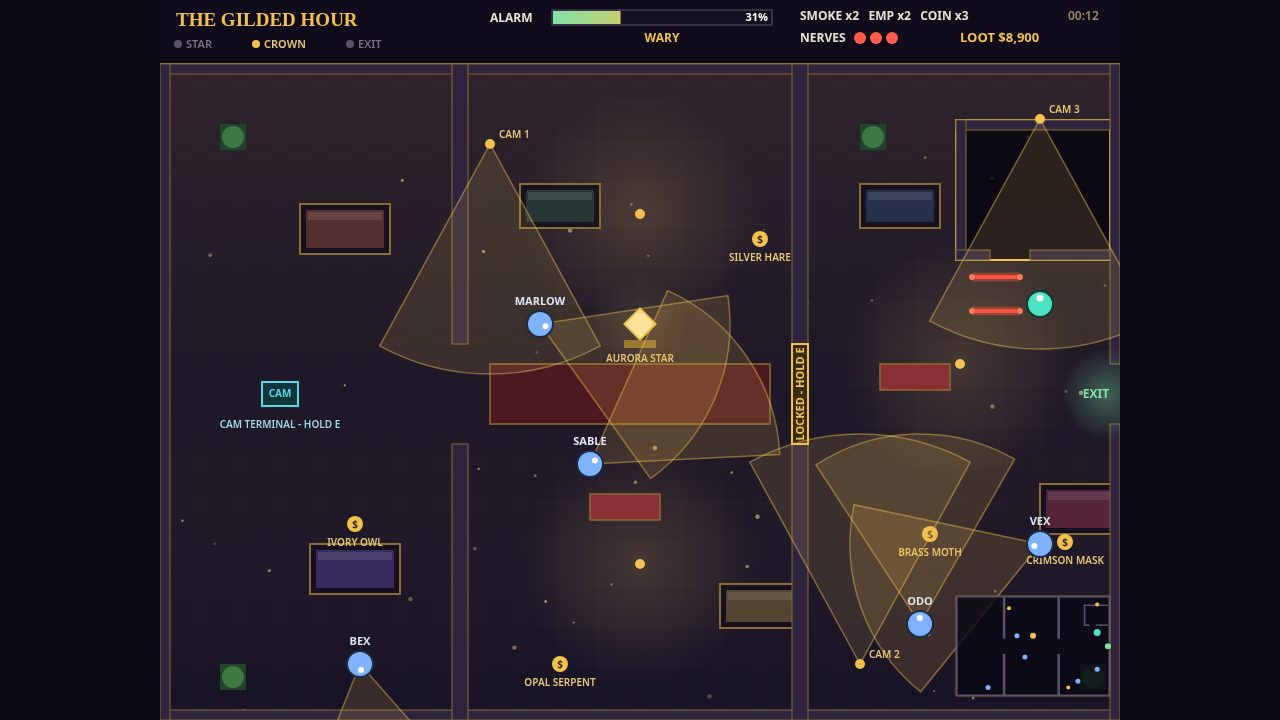
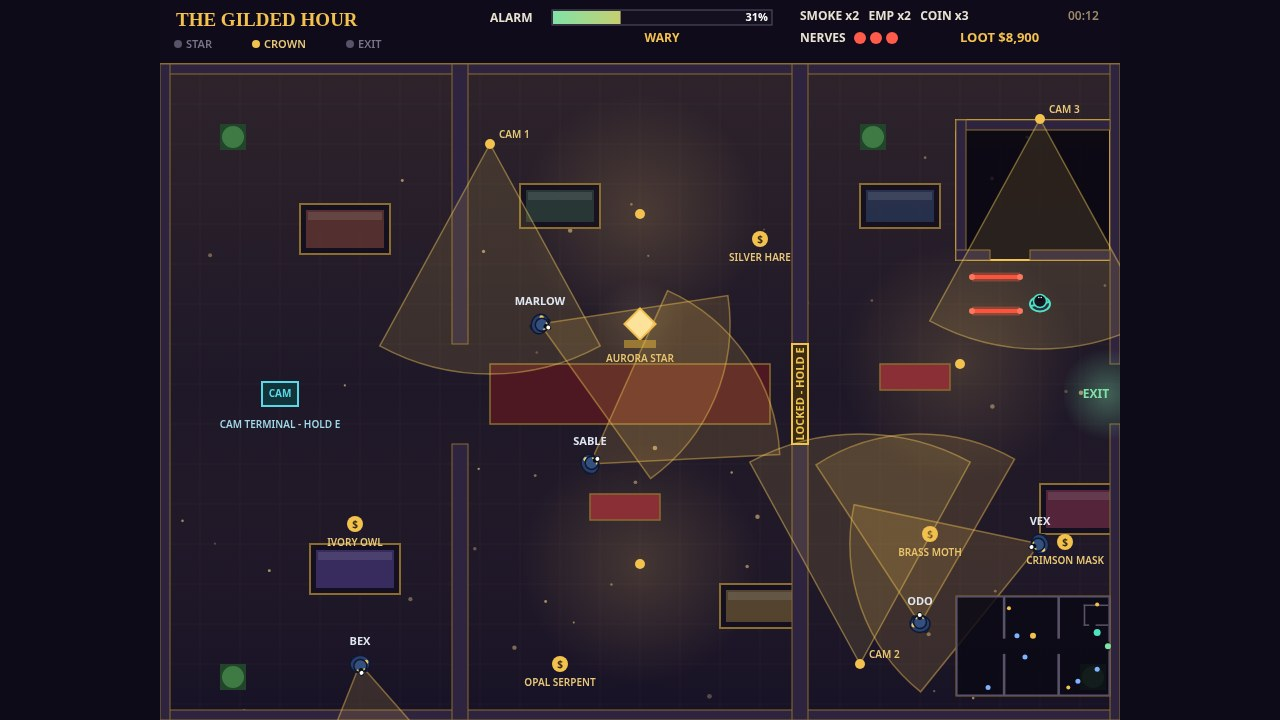
Characters are people now, not circles
Rook is a hooded thief (dark hood + teal rim, teal sash, face) with a
run cycle: two slate-grey feet alternate front/back with movement
(phase from world.time, idle = feet together) plus a slight body bob.
Guards are police/security: navy uniform, steel-blue cap with gold
band and dark brim, gold badge, facing dot kept. Vision cones, names,
?/! markers, positions, radii, collision and all game logic unchanged
— canvas.js drawing only. Screenshots re-rendered for the new sprites.

diff --git a/game/src/canvas.js b/game/src/canvas.js
@@ -56,6 +56,121 @@ function drawLootLabel(ctx, x, y, text) {
   ctx.fillText(text, x, y);
 }
 
+/** Top-down thief: hooded body with a teal sash, two legs that run. */
+function drawThief(ctx, x, y, r, facing, moving, sneaking, time) {
+  const rate = sneaking ? 8 : 13;
+  const ph = moving ? time * rate : 0;
+  const bob = moving ? Math.sin(ph * 2) * 1 : 0;
+  const swing = moving ? 9 : 0;
+  const legA = Math.sin(ph) * swing;
+  const legB = Math.sin(ph + Math.PI) * swing;
+  ctx.save();
+  ctx.translate(x, y + bob);
+  ctx.rotate(facing);
+  // legs (slate grey feet, alternate forward/back along the facing)
+  ctx.fillStyle = '#4a4a58';
+  ctx.strokeStyle = '#0e0e16';
+  ctx.lineWidth = 1;
+  ctx.beginPath();
+  ctx.ellipse(legA, -5.5, 5, 3, 0, 0, Math.PI * 2);
+  ctx.ellipse(legB, 5.5, 5, 3, 0, 0, Math.PI * 2);
+  ctx.fill();
+  ctx.stroke();
+  // shoulders / torso, teal outline so the body reads on the dark floor
+  ctx.fillStyle = '#2e2e40';
+  ctx.beginPath();
+  ctx.ellipse(0, 0, 7.5, 10, 0, 0, Math.PI * 2);
+  ctx.fill();
+  ctx.strokeStyle = '#4de3c2';
+  ctx.lineWidth = 2;
+  ctx.stroke();
+  // teal sash across the chest
+  ctx.strokeStyle = '#4de3c2';
+  ctx.lineWidth = 2;
+  ctx.beginPath();
+  ctx.moveTo(-2, -9);
+  ctx.lineTo(2, 9);
+  ctx.stroke();
+  // hood (head, slightly forward) with a teal rim
+  ctx.fillStyle = '#15151f';
+  ctx.beginPath();
+  ctx.arc(3, 0, 6.5, 0, Math.PI * 2);
+  ctx.fill();
+  ctx.strokeStyle = '#4de3c2';
+  ctx.lineWidth = 1.5;
+  ctx.stroke();
+  // face peeking forward from the hood, two eyes
+  ctx.fillStyle = '#0d0d14';
+  ctx.beginPath();
+  ctx.arc(5.5, 0, 3, 0, Math.PI * 2);
+  ctx.fill();
+  ctx.fillStyle = '#e8e2d2';
+  ctx.beginPath();
+  ctx.arc(6.5, -1.2, 0.8, 0, Math.PI * 2);
+  ctx.arc(6.5, 1.2, 0.8, 0, Math.PI * 2);
+  ctx.fill();
+  ctx.restore();
+}
+
+/** Top-down police/security guard: navy uniform, cap with brim, gold badge. */
+function drawGuard(ctx, x, y, r, angle, time) {
+  const ph = time * 7;
+  const legA = Math.sin(ph) * 6;
+  const legB = Math.sin(ph + Math.PI) * 6;
+  ctx.save();
+  ctx.translate(x, y);
+  ctx.rotate(angle);
+  // legs (navy trousers, alternate as he walks his route)
+  ctx.fillStyle = '#2a3552';
+  ctx.strokeStyle = '#0f1830';
+  ctx.lineWidth = 1;
+  ctx.beginPath();
+  ctx.ellipse(legA, -5.5, 4, 2.6, 0, 0, Math.PI * 2);
+  ctx.ellipse(legB, 5.5, 4, 2.6, 0, 0, Math.PI * 2);
+  ctx.fill();
+  ctx.stroke();
+  // shoulders / navy uniform, lighter than the floor so it reads
+  ctx.fillStyle = '#2a3f6e';
+  ctx.beginPath();
+  ctx.ellipse(0, 0, 8.5, 10, 0, 0, Math.PI * 2);
+  ctx.fill();
+  ctx.strokeStyle = '#0f1830';
+  ctx.lineWidth = 1.5;
+  ctx.stroke();
+  // gold badge on the chest
+  ctx.fillStyle = '#f2c14e';
+  ctx.beginPath();
+  ctx.arc(-1, -6.5, 2.2, 0, Math.PI * 2);
+  ctx.fill();
+  ctx.fillStyle = '#fff3c4';
+  ctx.beginPath();
+  ctx.arc(-1, -6.5, 0.9, 0, Math.PI * 2);
+  ctx.fill();
+  // cap (head): steel-blue crown, gold band, brim forward
+  ctx.fillStyle = '#33507e';
+  ctx.beginPath();
+  ctx.arc(2, 0, 6.5, 0, Math.PI * 2);
+  ctx.fill();
+  ctx.strokeStyle = '#0f1830';
+  ctx.lineWidth = 1.5;
+  ctx.stroke();
+  ctx.strokeStyle = '#f2c14e';
+  ctx.lineWidth = 1.5;
+  ctx.beginPath();
+  ctx.arc(2, 0, 5, -0.9, 0.9);
+  ctx.stroke();
+  ctx.fillStyle = '#0a0f1e';
+  ctx.beginPath();
+  ctx.ellipse(8, 0, 4, 2.6, 0, 0, Math.PI * 2);
+  ctx.fill();
+  // facing dot (kept from the old body)
+  ctx.fillStyle = '#fff';
+  ctx.beginPath();
+  ctx.arc(9, 0, 2, 0, Math.PI * 2);
+  ctx.fill();
+  ctx.restore();
+}
+
 export function drawWorld(ctx, world) {
   const W = 960;
   const H = 720;
@@ -332,17 +447,7 @@ export function drawWorld(ctx, world) {
     );
   }
   for (const g of world.guards) {
-    ctx.fillStyle = '#7fb2ff';
-    ctx.strokeStyle = '#1d2a44';
-    ctx.lineWidth = 2;
-    ctx.beginPath();
-    ctx.arc(g.x, g.y, g.r, 0, Math.PI * 2);
-    ctx.fill();
-    ctx.stroke();
-    ctx.fillStyle = '#fff';
-    ctx.beginPath();
-    ctx.arc(g.x + Math.cos(g.angle) * 6, g.y + Math.sin(g.angle) * 6, 3, 0, Math.PI * 2);
-    ctx.fill();
+    drawGuard(ctx, g.x, g.y, g.r, g.angle, world.time);
     ctx.fillStyle = '#dfe6f2';
     ctx.font = '700 11px system-ui, sans-serif';
     ctx.textAlign = 'center';
@@ -382,17 +487,7 @@ export function drawWorld(ctx, world) {
   // --- Rook ---
   const blink = rook.invuln > 0 && Math.floor(world.time * 10) % 2 === 0;
   if (!blink) {
-    ctx.fillStyle = TEAL;
-    ctx.strokeStyle = '#0b3a32';
-    ctx.lineWidth = 2;
-    ctx.beginPath();
-    ctx.arc(rook.x, rook.y, rook.r, 0, Math.PI * 2);
-    ctx.fill();
-    ctx.stroke();
-    ctx.fillStyle = '#fff';
-    ctx.beginPath();
-    ctx.arc(rook.x + Math.cos(rook.facing) * 6, rook.y + Math.sin(rook.facing) * 6, 3.5, 0, Math.PI * 2);
-    ctx.fill();
+    drawThief(ctx, rook.x, rook.y, rook.r, rook.facing, rook.moving, rook.sneaking, world.time);
     if (rook.sneaking) {
       ctx.strokeStyle = 'rgba(77,227,194,0.7)';
       ctx.lineWidth = 1.5;
